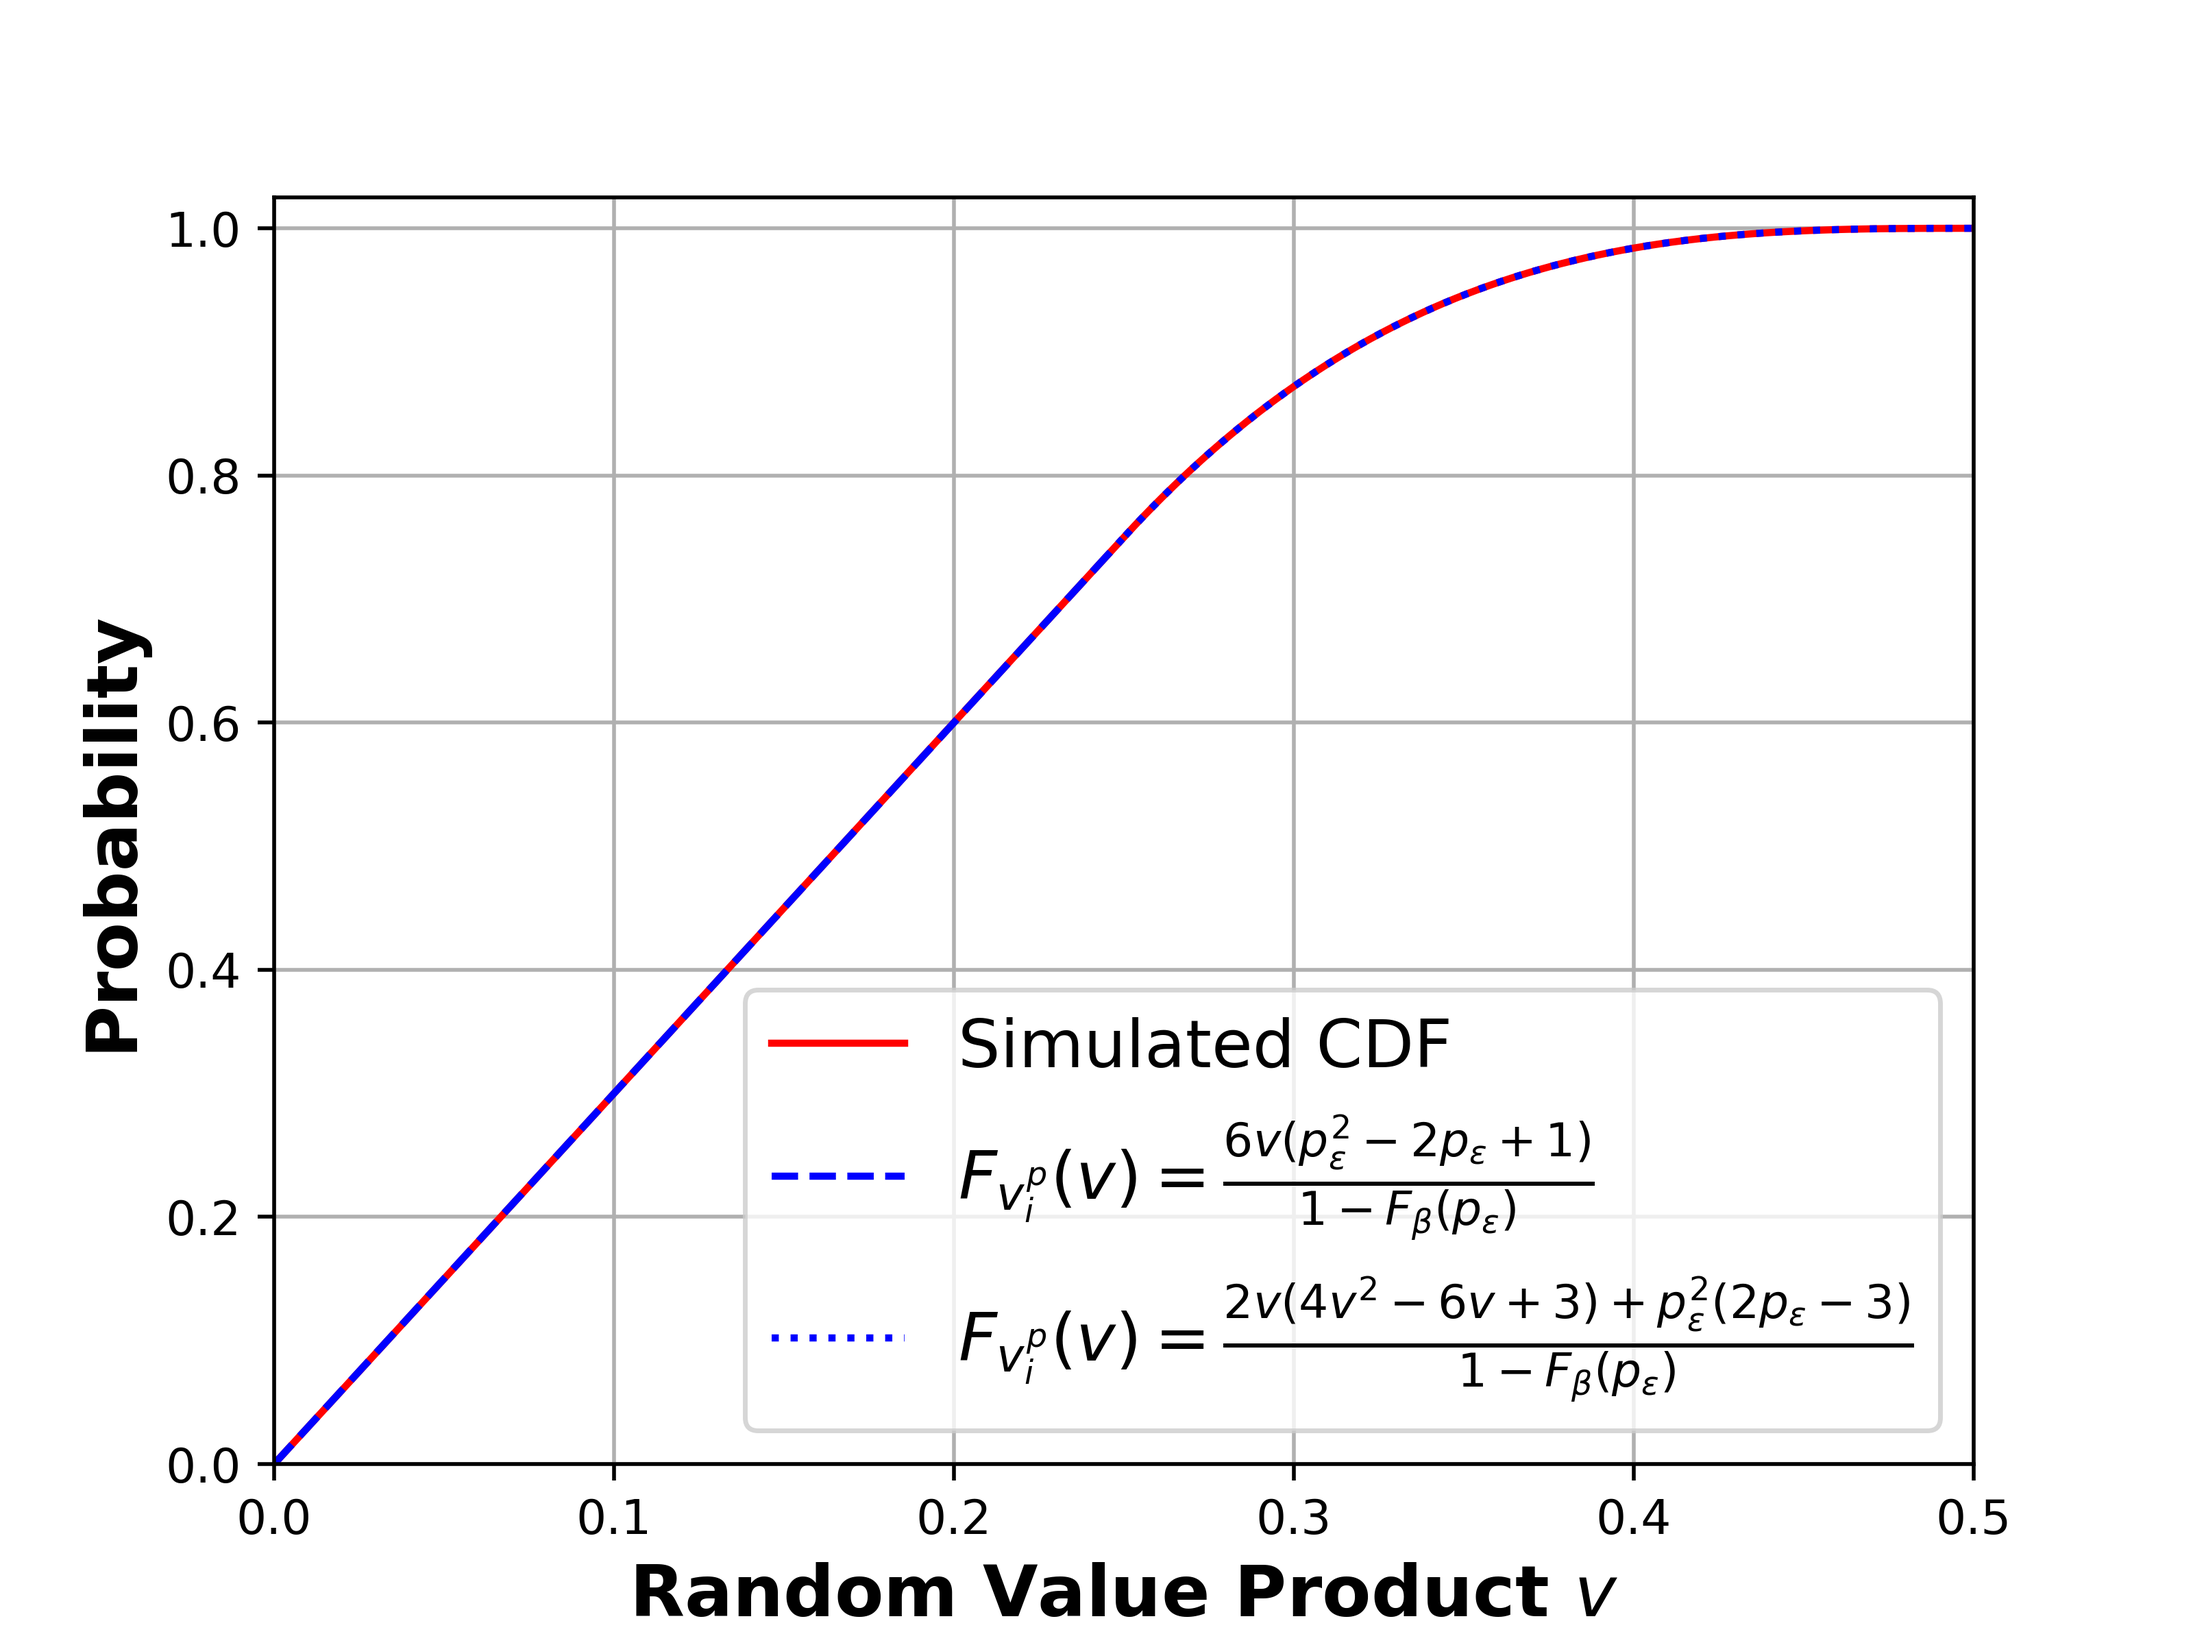
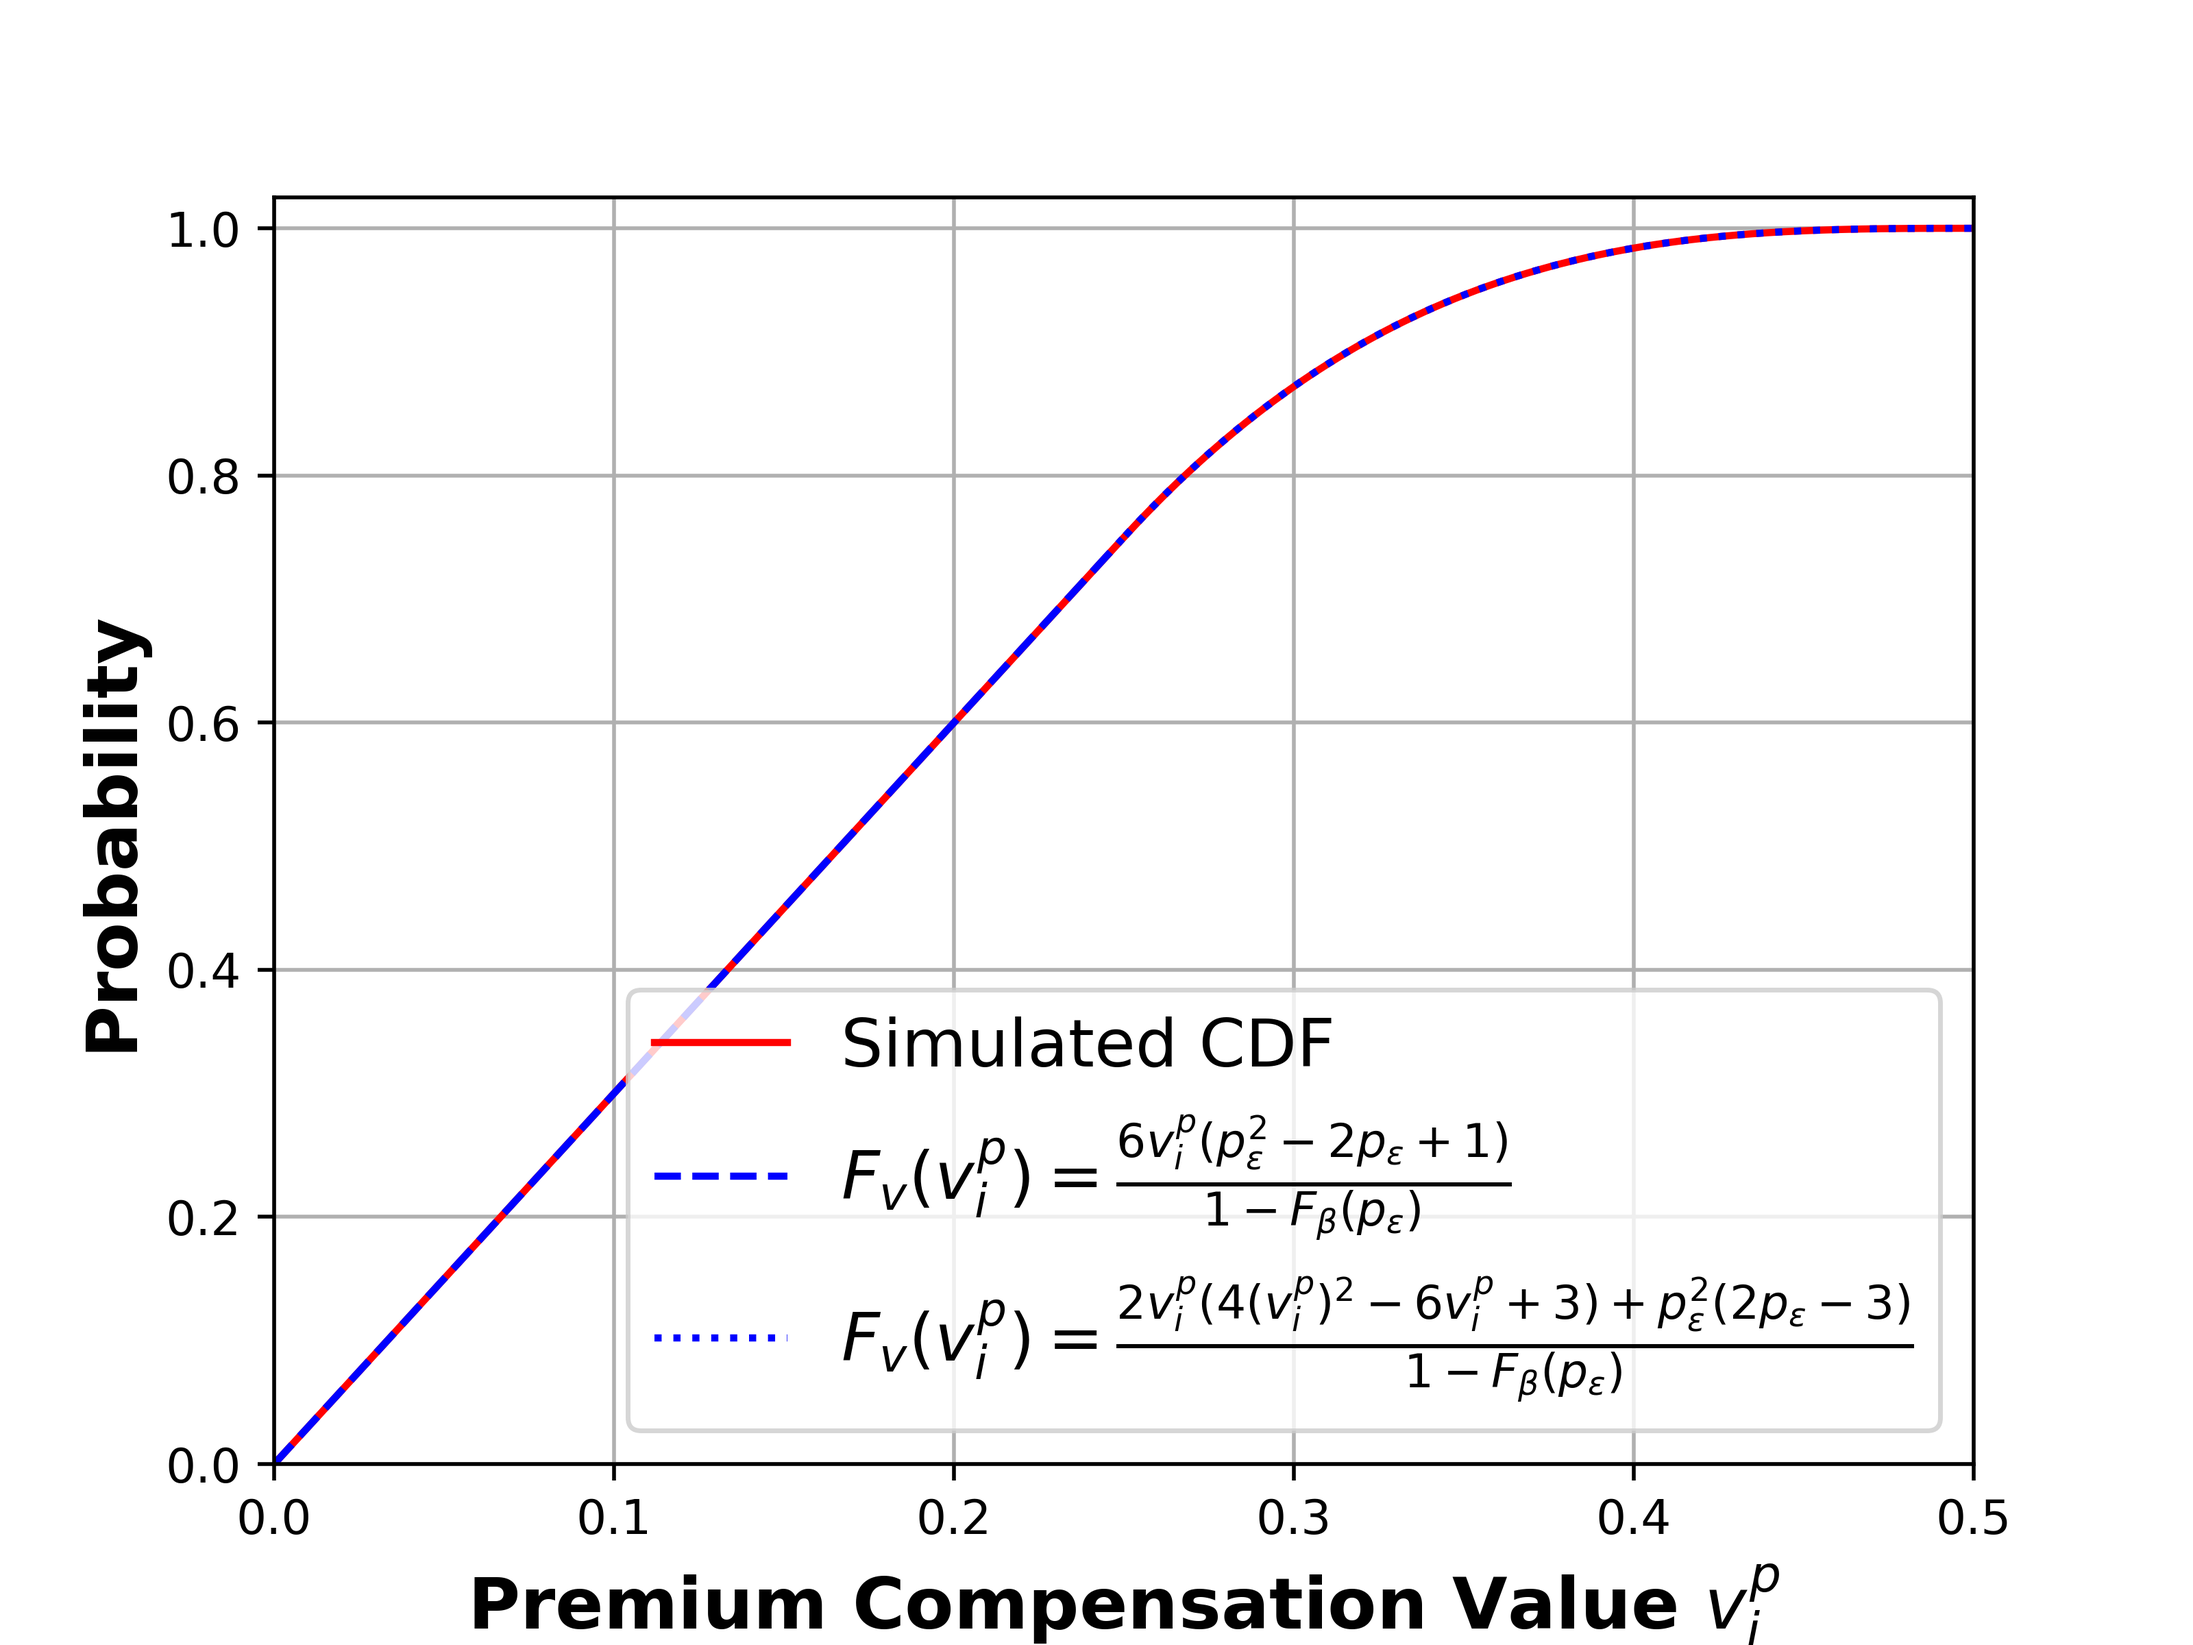
update figures

diff --git a/random_variable_sim.py b/random_variable_sim.py
@@ -5,7 +5,7 @@ if __name__ == '__main__':
 
     beta = False
     num_agents = int(5e7) if not beta else int(1e8)
-    p_epsilon = 0.5
+    p_epsilon = 0.25
     if beta:
         V = np.random.beta(2, 2, size=num_agents)
         V = V[V >= p_epsilon]
@@ -39,16 +39,16 @@ if __name__ == '__main__':
     # plotting PDF and CDF
     lab = 'beta' if beta else 'uniform'
     max_pdf = np.max(y_pdf1)
-    pdf1_label = '$f_{v_i^p}(v) = \\frac{6(p_\epsilon^2 - 2p_\epsilon + 1)}{1 - F_\\beta(p_\epsilon)}$' if beta else '$f_{v_i^p}(v) = \\frac{2\ln(p_\epsilon)}{p_\epsilon - 1}$'
-    pdf2_label = '$f_{v_i^p}(v) = \\frac{6(4v^2 - 4v + 1)}{1 - F_\\beta(p_\epsilon)}$' if beta else '$f_{v_i^p}(v) = \\frac{2\ln(2v)}{p_\epsilon - 1}$'
-    cdf1_label = '$F_{v_i^p}(v) = \\frac{6v(p_\epsilon^2 - 2p_\epsilon + 1)}{1 - F_\\beta(p_\epsilon)}$' if beta else '$F_{v_i^p}(v) = \\frac{2v\ln(p_\epsilon)}{p_\epsilon - 1}$'
-    cdf2_label = '$F_{v_i^p}(v) = \\frac{2v(4v^2 - 6v + 3) + p_\epsilon^2(2p_\epsilon - 3)}{1 - F_\\beta(p_\epsilon)}$' if beta else '$F_{v_i^p}(v) = \\frac{2v(\ln(2v)-1) + p_\epsilon}{p_\epsilon - 1}$'
+    pdf1_label = '$f_{v}(v_i^p) = \\frac{6(p_\epsilon^2 - 2p_\epsilon + 1)}{1 - F_\\beta(p_\epsilon)}$' if beta else '$f_{v}(v_i^p) = \\frac{2\ln(p_\epsilon)}{p_\epsilon - 1}$'
+    pdf2_label = '$f_{v}(v_i^p) = \\frac{6(4(v_i^p)^2 - 4v_i^p + 1)}{1 - F_\\beta(p_\epsilon)}$' if beta else '$f_{v}(v_i^p) = \\frac{2\ln(2v_i^p)}{p_\epsilon - 1}$'
+    cdf1_label = '$F_{v}(v_i^p) = \\frac{6v_i^p(p_\epsilon^2 - 2p_\epsilon + 1)}{1 - F_\\beta(p_\epsilon)}$' if beta else '$F_{v}(v_i^p) = \\frac{2v_i^p\ln(p_\epsilon)}{p_\epsilon - 1}$'
+    cdf2_label = '$F_{v}(v_i^p) = \\frac{2v_i^p(4(v_i^p)^2 - 6v_i^p + 3) + p_\epsilon^2(2p_\epsilon - 3)}{1 - F_\\beta(p_\epsilon)}$' if beta else '$F_{v}(v_i^p) = \\frac{2v_i^p(\ln(2v_i^p)-1) + p_\epsilon}{p_\epsilon - 1}$'
 
     plt.figure(1)
     plt.plot(bins_count[1:], pdf, color="red", label="Simulated PDF")
     plt.plot(x_1, y_pdf1, color="blue", label=pdf1_label)
     plt.plot(x_2, y_pdf2, '--', color="blue", label=pdf2_label)
-    plt.xlabel('Random Value Product $v$', fontsize="14", fontweight='bold')
+    plt.xlabel('Premium Compensation Value $v_i^p$', fontsize="14", fontweight='bold')
     plt.ylabel('Probability Density', fontsize="14", fontweight='bold')
     plt.xlim([0, 0.5])
     plt.ylim([0, max_pdf*1.05])
@@ -62,7 +62,7 @@ if __name__ == '__main__':
     plt.plot(bins_count[1:], cdf, label="Simulated CDF", color='red')
     plt.plot(x_1, y_cdf1, '--', color="blue", label=cdf1_label)
     plt.plot(x_2, y_cdf2, ':', color="blue", label=cdf2_label)
-    plt.xlabel('Random Value Product $v$', fontsize="15", fontweight='bold')
+    plt.xlabel('Premium Compensation Value $v_i^p$', fontsize="15", fontweight='bold')
     plt.ylabel('Probability', fontsize="15", fontweight='bold')
     plt.xlim([0, 0.5])
     plt.ylim([0, 1.025])

diff --git a/equilibrium.py b/equilibrium.py
@@ -78,8 +78,9 @@ def regauc_equilibrium(lambda_max, beta=False):
     x_vals = diff*100 - 100
 
     plt.figure()
+    plt.axvline(x=0, ymin=0, ymax=1, color='r', linestyle=':', label='Optimal Bid')
     plt.plot(x_vals, mean_varied_utility)
-    plt.plot(x_vals[best_idx], mean_varied_utility[best_idx], 'r*', markersize=5, label='Maximizer')
+    # plt.plot(x_vals[best_idx], mean_varied_utility[best_idx], 'r*', markersize=5, label='Maximizer')
     plt.legend(loc='best', fontsize="15")
     plt.grid()
     plt.xlabel('Percent Deviated from Optimal Bid (%)', fontsize="15", fontweight='bold')
